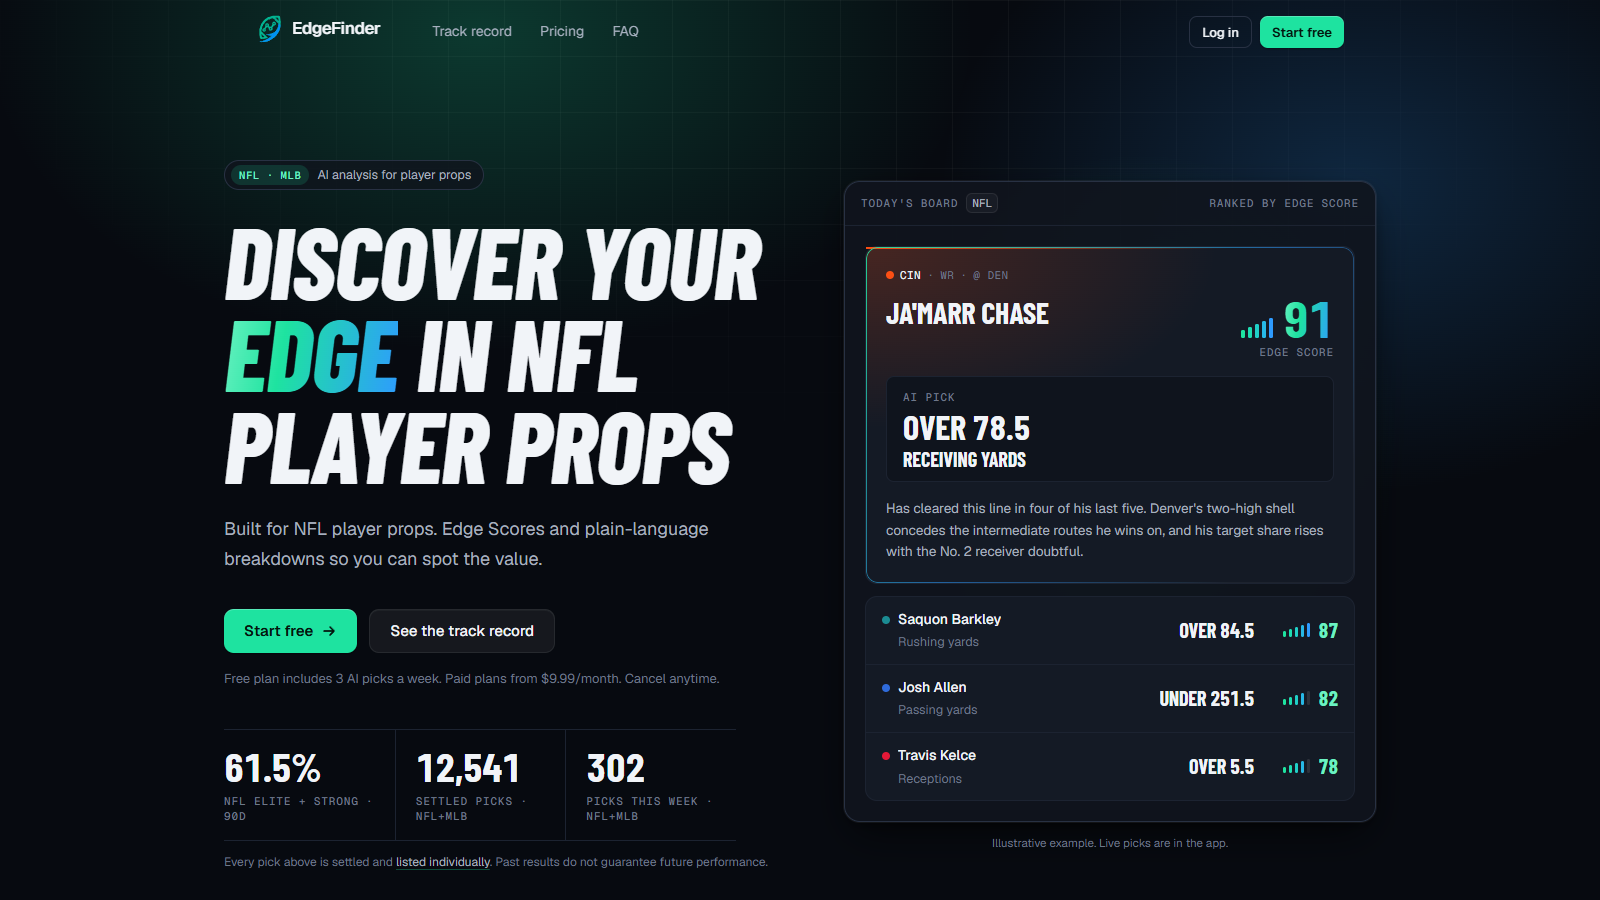
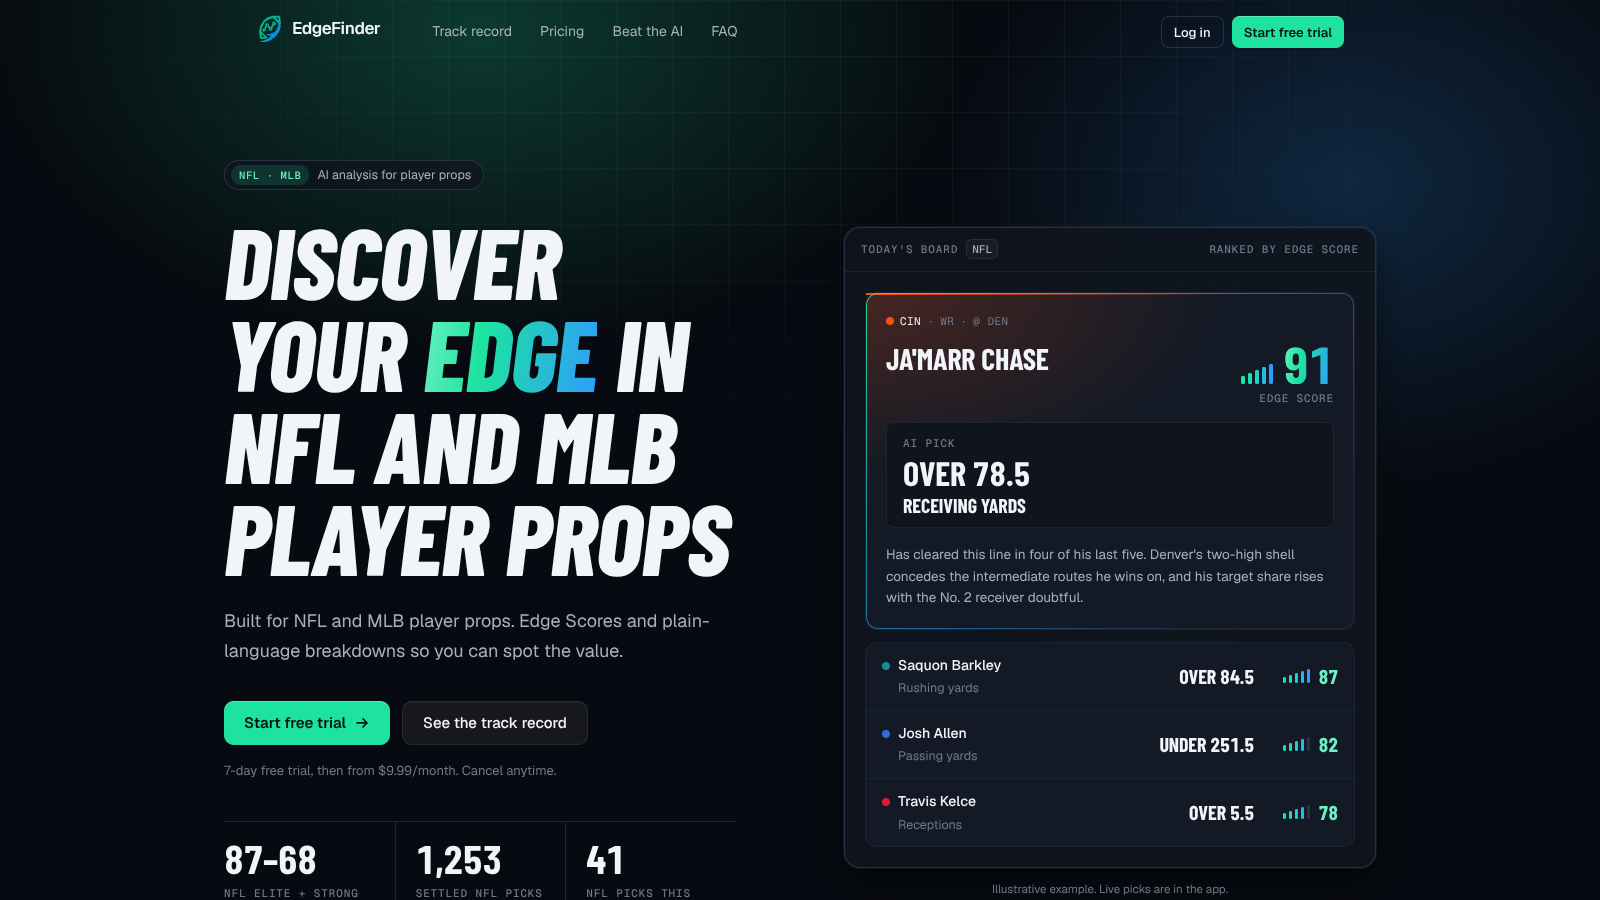
Drop Kelowna from the web design headline; reshoot two screenshots
The first screen, page title and meta description now say "Websites for
small businesses" with no location, so the page works for leads from
anywhere rather than reading as Okanagan-only. The eyebrow above the
headline changes from "Kelowna & the Central Okanagan" to "Web design &
development". Where Brayden is based now lives only in the about blurb
and the "Based in Kelowna" trust card.

Reshot EdgeFinder and M&B Capital from the live sites at 1600x900, after
network idle, fonts ready, every image decoded, a full scroll to trigger
lazy content, and a 10s settle. EdgeFinder's cookie banner is dismissed
before the shot. The EdgeFinder hero has changed since the last capture
(now NFL and MLB, new nav and stats).

Claude-Session: https://claude.ai/code/session_01RGpbRmLhEujH3nXeGWH4vX

diff --git a/src/components/sections/WebDev.jsx b/src/components/sections/WebDev.jsx
@@ -223,9 +223,11 @@ const WebDev = () => {
       {/* First screen. Four things have to be answerable above the fold: who
           this is for, what they get, why it's credible, and what to do next.
           The page used to be for trades only; Brayden broadened it to any local
-          business (2026-10-20). A spread of business types is still named
-          outright, so a visitor can find themselves in it in five seconds
-          rather than having to infer it from "small business".
+          business (2026-10-20), then dropped the Kelowna framing (2026-11-11) so
+          it works for leads from anywhere, not just the Okanagan. A spread of
+          business types is still named outright, so a visitor can find
+          themselves in it in five seconds rather than having to infer it from
+          "small business".
 
           Every line here is either a description of the product, a fact about
           Brayden's own pricing, or a promise about his own conduct. There are no
@@ -242,13 +244,12 @@ const WebDev = () => {
           <Reveal>
             <span className="inline-flex items-center gap-2 font-mono text-xs uppercase tracking-[0.25em] text-accent-3">
               <span className="h-px w-8 bg-accent-3/60" />
-              Kelowna &amp; the Central Okanagan
+              Web design &amp; development
             </span>
           </Reveal>
           <Reveal delay={0.05}>
             <h1 className="mt-4 font-display text-4xl font-bold leading-tight tracking-tight text-ink sm:text-5xl">
-              Websites for Kelowna{' '}
-              <span className="text-gradient">small businesses</span>
+              Websites for <span className="text-gradient">small businesses</span>
             </h1>
           </Reveal>
           <Reveal delay={0.1}>
@@ -635,14 +636,12 @@ const WebDev = () => {
                 <h2 className="font-display text-2xl font-semibold text-ink">
                   <span className="text-gradient">About me</span>
                 </h2>
-                {/* The first screen commits to Kelowna deliberately. This is where
-                    the wider reach lives instead — below the fold, so it can't
-                    dilute who the page is for, but still there for the out-of-town
-                    enquiries and existing ad traffic that already land here. */}
+                {/* Where he's based lives here rather than on the first screen, which
+                    is deliberately location-free so it works for out-of-town leads. */}
                 <p className="mt-3 leading-relaxed text-ink-soft">
-                  Hi, I&apos;m Brayden Coghill, a web developer in Kelowna, BC. I build sites for
-                  small businesses of every kind across the Central Okanagan — and I work remotely
-                  with clients elsewhere in Canada too. My goal is to build sites that are not only
+                  Hi, I&apos;m Brayden Coghill, a web developer based in Kelowna, BC. I build sites
+                  for small businesses of every kind, working remotely with clients across Canada or
+                  in person here in the Okanagan. My goal is to build sites that are not only
                   good looking but also fast, reliable, and straightforward for you to keep using
                   after launch.
                 </p>

diff --git a/index.html b/index.html
@@ -37,8 +37,8 @@
          /portfolio route swaps them at runtime — see DocumentMeta in App.jsx. -->
     <!-- The old keyword meta tag was deliberately deleted, not rewritten: it was
          stuffed, and no modern search engine reads it. -->
-    <meta name="description" content="Websites for Kelowna small businesses — shops, studios, clinics, restaurants, trades and professional services. A 6-page site with a contact form for one fixed price, published up front. You deal with me directly and get a reply within one business day."/>
-    <title>Websites for Kelowna Small Businesses | Coghilldev</title>
+    <meta name="description" content="Websites for small businesses — shops, studios, clinics, restaurants, trades and professional services. A 6-page site with a contact form for one fixed price, published up front. You deal with me directly and get a reply within one business day."/>
+    <title>Websites for Small Businesses | Coghilldev</title>
     <script>
         // Reverse the GitHub Pages SPA redirect by restoring the original path
         (function () {

diff --git a/src/App.jsx b/src/App.jsx
@@ -58,9 +58,9 @@ function HashScroll({ ready }) {
 
 const ROUTE_META = {
   '/': {
-    title: 'Websites for Kelowna Small Businesses | Coghilldev',
+    title: 'Websites for Small Businesses | Coghilldev',
     description:
-      'Websites for Kelowna small businesses — shops, studios, clinics, restaurants, trades and professional services. A 6-page site with a contact form for one fixed price, published up front. You deal with me directly and get a reply within one business day.',
+      'Websites for small businesses — shops, studios, clinics, restaurants, trades and professional services. A 6-page site with a contact form for one fixed price, published up front. You deal with me directly and get a reply within one business day.',
   },
   '/portfolio': {
     title: 'Brayden Coghill — Software Developer | Kelowna, BC',

diff --git a/legal/claims-log.md b/legal/claims-log.md
@@ -89,7 +89,7 @@ conduct guarantee becomes an unsubstantiated claim.
 ## D. Third-party statistics cleared for use
 
 Each traced to a named primary source. **Cite the source and date inline every
-time.** Label US data as US data — most of it is, and Coghilldev sells in Kelowna.
+time.** Label US data as US data — most of it is, and Coghilldev sells in Canada.
 
 None of these are currently published anywhere. This is the approved pool, not a
 record of use. When one gets used, add its location to the last column.
